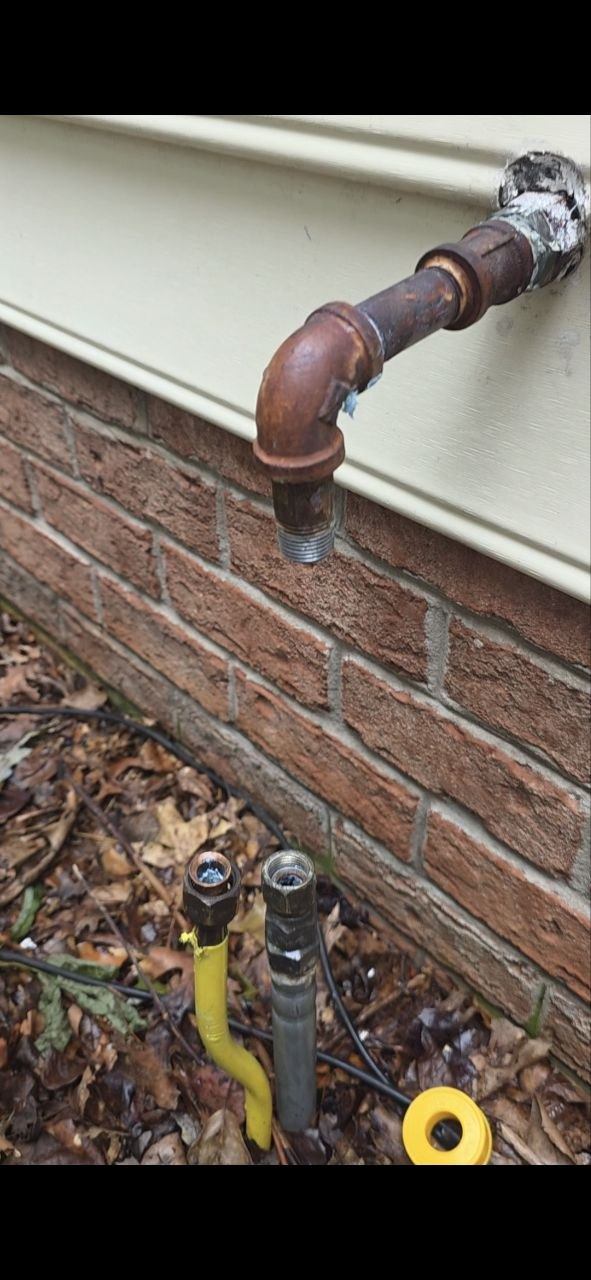
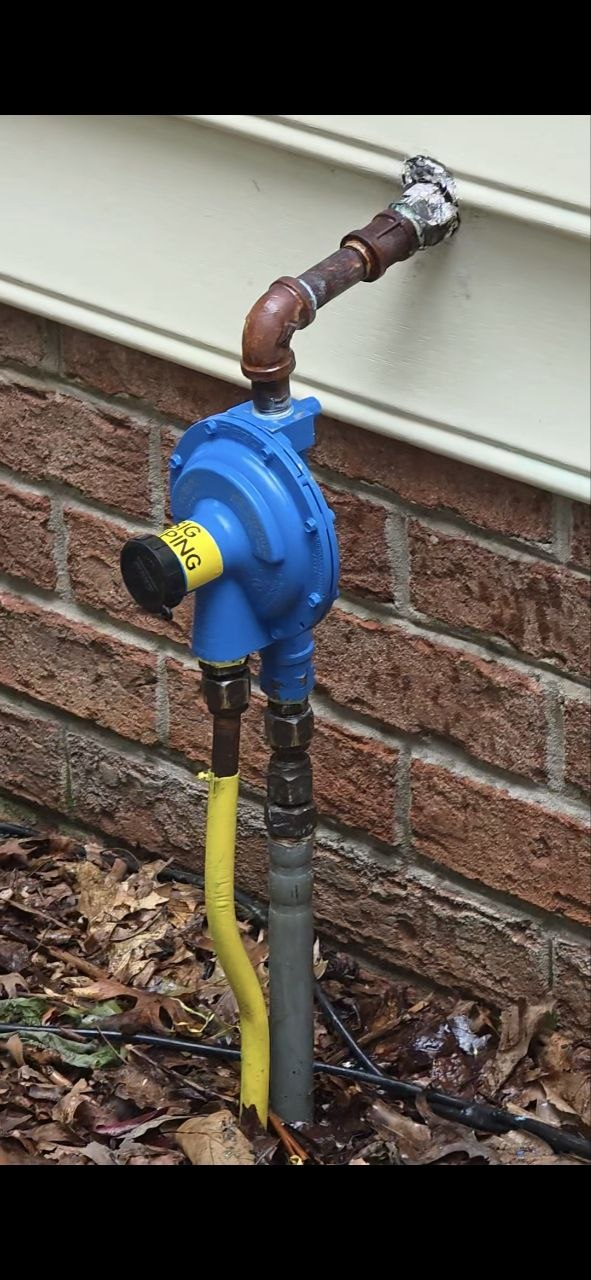
Fix scrambled photo names, alt text, slider before/after pairing, captions, og:image

diff --git a/gas-appliance-hookups/regulator-replacement-westminster-md.html b/gas-appliance-hookups/regulator-replacement-westminster-md.html
@@ -12,7 +12,7 @@
   <meta property="og:description" content="Leaking or corroded propane or natural gas regulator? Afternoon Plumbing replaces regulators on house-side gas lines in Westminster, MD and Carroll County." />
   <meta property="og:type" content="website" />
   <meta property="og:url" content="https://afternoonplumbing.com/gas-appliance-hookups/regulator-replacement-westminster-md.html" />
-  <meta property="og:image" content="https://afternoonplumbing.com/images/2026-09-29%20old%20vs%20new%20propane%20regulator%20side%20by%20side%20westminster-md.webp" />
+  <meta property="og:image" content="https://afternoonplumbing.com/images/2026-09-29%20new%20propane%20regulator%20installed%20westminster-md.webp" />
   <meta name="theme-color" content="#1a3a5c" />
   <link rel="stylesheet" href="/styles/glass-site.css" />
   <link rel="stylesheet" href="/styles/service-pages.css?v=3" />
@@ -195,11 +195,11 @@
     </article>
     <aside class="glass-card">
       <div class="compare-frame">
-        <div class="compare" data-compare aria-label="Old leaking propane regulator on the exterior wall before replacement, and the new regulator after installation in Westminster, MD">
+        <div class="compare" data-compare aria-label="Old faded propane regulator before replacement, and the same wall with the new regulator freshly installed, in Westminster, MD">
           <div class="compare-instruction">Drag or tap to compare</div>
-          <img loading="lazy" decoding="async" src="/images/2026-09-29%20old%20leaking%20propane%20regulator%20on%20westminster-md%20exterior%20wall.webp" data-jpg="/images/2026-09-29%20old%20leaking%20propane%20regulator%20on%20westminster-md%20exterior%20wall.jpg" width="925" height="1085" alt="Old corroded leaking propane regulator on the exterior wall of a Westminster, MD home before replacement" />
+          <img loading="lazy" decoding="async" src="/images/2026-09-29%20old%20propane%20regulator%20on%20exterior%20wall.webp" data-jpg="/images/2026-09-29%20old%20propane%20regulator%20on%20exterior%20wall.jpg" width="830" height="1085" alt="Old faded weathered propane regulator still mounted on the exterior wall before replacement" />
           <div class="compare-after-wrap">
-            <img loading="lazy" decoding="async" src="/images/2026-09-29%20new%20propane%20regulator%20installed%20westminster-md.webp" data-jpg="/images/2026-09-29%20new%20propane%20regulator%20installed%20westminster-md.jpg" width="591" height="1280" alt="New propane regulator installed on the exterior wall of a Westminster, MD home after replacement" />
+            <img loading="lazy" decoding="async" src="/images/2026-09-29%20new%20propane%20regulator%20installed%20westminster-md.webp" data-jpg="/images/2026-09-29%20new%20propane%20regulator%20installed%20westminster-md.jpg" width="591" height="1280" alt="New propane regulator freshly installed on the exterior gas line of a Westminster, MD home" />
           </div>
           <div class="compare-handle"><div class="compare-knob">↔</div></div>
           <span class="compare-label">Before</span>
@@ -306,24 +306,24 @@
     <div class="section-head"><div><span class="section-kicker">The job, photo by photo</span><h2 style="margin-top:12px;">What we found at the regulator and how we fixed it</h2></div></div>
     <div class="proof-grid">
       <article class="proof-card">
-        <img loading="lazy" decoding="async" src="/images/2026-09-29%20old%20leaking%20propane%20regulator%20on%20westminster-md%20exterior%20wall.webp" data-jpg="/images/2026-09-29%20old%20leaking%20propane%20regulator%20on%20westminster-md%20exterior%20wall.jpg" width="925" height="1085" alt="Old corroded leaking propane regulator on the exterior wall of a Westminster, MD home before replacement" />
-        <p class="proof-caption"><strong>Old leaking regulator:</strong> visibly corroded brass fitting, exposed threads, and active propane leak on the exterior wall.</p>
+        <img loading="lazy" decoding="async" src="/images/2026-09-29%20old%20propane%20regulator%20on%20exterior%20wall.webp" data-jpg="/images/2026-09-29%20old%20propane%20regulator%20on%20exterior%20wall.jpg" width="830" height="1085" alt="Old faded weathered propane regulator still mounted on the exterior wall before replacement" />
+        <p class="proof-caption"><strong>Old regulator, still mounted:</strong> matte, weathered unit on the wall before replacement. The corrosion and wear that pushed the homeowner to call.</p>
       </article>
       <article class="proof-card">
-        <img loading="lazy" decoding="async" src="/images/2026-09-29%20pipes%20after%20old%20regulator%20removed%20westminster-md.webp" data-jpg="/images/2026-09-29%20pipes%20after%20old%20regulator%20removed%20westminster-md.jpg" width="830" height="1280" alt="Copper gas line and threaded nipple after the old propane regulator was removed in Westminster, MD" />
-        <p class="proof-caption"><strong>After removal:</strong> copper line exposed and inspected. The old regulator had been leaking for long enough that the threads were visibly damaged.</p>
+        <img loading="lazy" decoding="async" src="/images/2026-09-29%20gas%20pipe%20open%20after%20regulator%20removal%20westminster-md.webp" data-jpg="/images/2026-09-29%20gas%20pipe%20open%20after%20regulator%20removal%20westminster-md.jpg" width="591" height="1280" alt="Open rusted gas pipe after the old propane regulator was removed" />
+        <p class="proof-caption"><strong>Old unit off:</strong> the pipe run open after removal, with fresh yellow gas-rated thread tape ready for the swap.</p>
       </article>
       <article class="proof-card">
-        <img loading="lazy" decoding="async" src="/images/2026-09-29%20old%20propane%20regulator%20removed%20and%20set%20aside%20westminster-md.webp" data-jpg="/images/2026-09-29%20old%20propane%20regulator%20removed%20and%20set%20aside%20westminster-md.jpg" width="1080" height="504" alt="Old blue propane regulator removed from the home and set aside in Westminster, MD" />
-        <p class="proof-caption"><strong>Old unit off:</strong> the failed regulator removed from the line and set aside. Yellow gas-label sticker still visible.</p>
+        <img loading="lazy" decoding="async" src="/images/2026-09-29%20old%20and%20new%20regulators%20side%20by%20side%20truck%20bed%20westminster-md.webp" data-jpg="/images/2026-09-29%20old%20and%20new%20regulators%20side%20by%20side%20truck%20bed%20westminster-md.jpg" width="925" height="1085" alt="Old and new propane regulators side by side in the truck bed after replacement" />
+        <p class="proof-caption"><strong>Side by side:</strong> old and new regulators in the truck bed after the swap. Same form factor, fresh seals and threads.</p>
       </article>
       <article class="proof-card">
-        <img loading="lazy" decoding="async" src="/images/2026-09-29%20old%20vs%20new%20propane%20regulator%20side%20by%20side%20westminster-md.webp" data-jpg="/images/2026-09-29%20old%20vs%20new%20propane%20regulator%20side%20by%20side%20westminster-md.jpg" width="591" height="1280" alt="Old and new propane regulators shown side by side for comparison in Westminster, MD" />
-        <p class="proof-caption"><strong>Side by side:</strong> old regulator on the left, new regulator on the right. Same form factor, fresh seals and threads, ready to install.</p>
+        <img loading="lazy" decoding="async" src="/images/2026-09-29%20new%20propane%20regulator%20installed%20westminster-md.webp" data-jpg="/images/2026-09-29%20new%20propane%20regulator%20installed%20westminster-md.jpg" width="591" height="1280" alt="New propane regulator freshly installed on the exterior gas line of a Westminster, MD home" />
+        <p class="proof-caption"><strong>New regulator installed:</strong> glossy new unit on the gas line, leak-tested and ready for years of service.</p>
       </article>
       <article class="proof-card">
-        <img loading="lazy" decoding="async" src="/images/2026-09-29%20new%20propane%20regulator%20installed%20westminster-md.webp" data-jpg="/images/2026-09-29%20new%20propane%20regulator%20installed%20westminster-md.jpg" width="591" height="1280" alt="New propane regulator installed on the exterior wall of a Westminster, MD home" />
-        <p class="proof-caption"><strong>New regulator installed:</strong> new unit on the wall, gas line reconnected, system pressurized and leak-tested.</p>
+        <img loading="lazy" decoding="async" src="/images/2026-09-29%20new%20propane%20regulator%20installed%20westminster-md.webp" data-jpg="/images/2026-09-29%20new%20propane%20regulator%20installed%20westminster-md.jpg" width="591" height="1280" alt="New propane regulator freshly installed on the exterior gas line of a Westminster, MD home" />
+        <p class="proof-caption"><strong>Done in one visit:</strong> from the first smell of gas to a leak-tested system, wrapped up the same day.</p>
       </article>
     </div>
   </section>

diff --git a/gas-appliance-hookups.html b/gas-appliance-hookups.html
@@ -12,7 +12,7 @@
   <meta property="og:description" content="Gas appliance hookups, regulator replacements, and house-side gas line repairs in Westminster, MD and Carroll County." />
   <meta property="og:type" content="website" />
   <meta property="og:url" content="https://afternoonplumbing.com/gas-appliance-hookups.html" />
-  <meta property="og:image" content="https://afternoonplumbing.com/images/2026-09-29%20old%20vs%20new%20propane%20regulator%20side%20by%20side%20westminster-md.webp" />
+  <meta property="og:image" content="https://afternoonplumbing.com/images/2026-09-29%20old%20and%20new%20regulators%20side%20by%20side%20truck%20bed%20westminster-md.webp" />
   <meta name="theme-color" content="#1a3a5c" />
   <link rel="stylesheet" href="/styles/glass-site.css" />
   <script src="/scripts/glass-site.js" defer></script>
@@ -148,7 +148,7 @@
     </div>
     <div class="service-grid">
       <article class="service-tile">
-        <div class="service-media"><span class="media-tag">Regulators</span><img loading="lazy" decoding="async" src="/images/2026-09-29%20old%20vs%20new%20propane%20regulator%20side%20by%20side%20westminster-md.webp" data-jpg="/images/2026-09-29%20old%20vs%20new%20propane%20regulator%20side%20by%20side%20westminster-md.jpg" alt="Old and new propane regulators shown side by side for comparison in Westminster, MD" /></div>
+        <div class="service-media"><span class="media-tag">Regulators</span><img loading="lazy" decoding="async" src="/images/2026-09-29%20old%20and%20new%20regulators%20side%20by%20side%20truck%20bed%20westminster-md.webp" data-jpg="/images/2026-09-29%20old%20and%20new%20regulators%20side%20by%20side%20truck%20bed%20westminster-md.jpg" alt="Old faded and new glossy propane regulators side by side in the truck bed after a Westminster, MD replacement" /></div>
         <div>
           <span class="tag">Regulator replacement</span>
           <h3 style="margin-top:12px;">Propane &amp; Natural Gas Regulator Replacement</h3>

diff --git a/services.html b/services.html
@@ -172,7 +172,7 @@
       </article>
 
       <article class="service-tile">
-        <div class="service-media"><span class="media-tag">Gas work</span><img loading="lazy" decoding="async" src="/images/2026-09-29%20old%20vs%20new%20propane%20regulator%20side%20by%20side%20westminster-md.webp" data-jpg="/images/2026-09-29%20old%20vs%20new%20propane%20regulator%20side%20by%20side%20westminster-md.jpg" alt="Old and new propane regulators shown side by side for comparison in Westminster, MD" /></div>
+        <div class="service-media"><span class="media-tag">Gas work</span><img loading="lazy" decoding="async" src="/images/2026-09-29%20old%20and%20new%20regulators%20side%20by%20side%20truck%20bed%20westminster-md.webp" data-jpg="/images/2026-09-29%20old%20and%20new%20regulators%20side%20by%20side%20truck%20bed%20westminster-md.jpg" alt="Old faded and new glossy propane regulators side by side in the truck bed after a Westminster, MD replacement" /></div>
         <div>
           <span class="tag">Gas appliance hookups</span>
           <h3 style="margin-top:12px;">Gas Appliance Hookups &amp; Repairs</h3>
